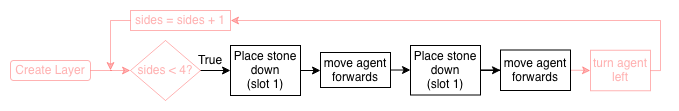
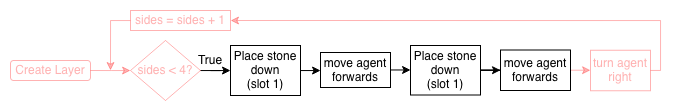
Change tower code plus images so tower is build in correct place

diff --git a/tutorials/python-islands/island-7/tower_builder/tower_builder_1.md b/tutorials/python-islands/island-7/tower_builder/tower_builder_1.md
@@ -77,7 +77,7 @@ Add to your function, within the loop, to make it match the flowchart.
 ```
 ```
 
-- At the end of the loop, within the function, turn your agent left
+- At the end of the loop, within the function, turn your agent right
 
 ## Main Code - Part 1
 
@@ -134,7 +134,7 @@ def create_layer():
         agent.move(FORWARD, 1)
         agent.place(DOWN)
         agent.move(FORWARD, 1)
-        agent.turn_left()
+        agent.turn_right()
 
 agent.set_item(STONE, 64, 1)
 agent.set_item(GLOWSTONE, 1, 2)
